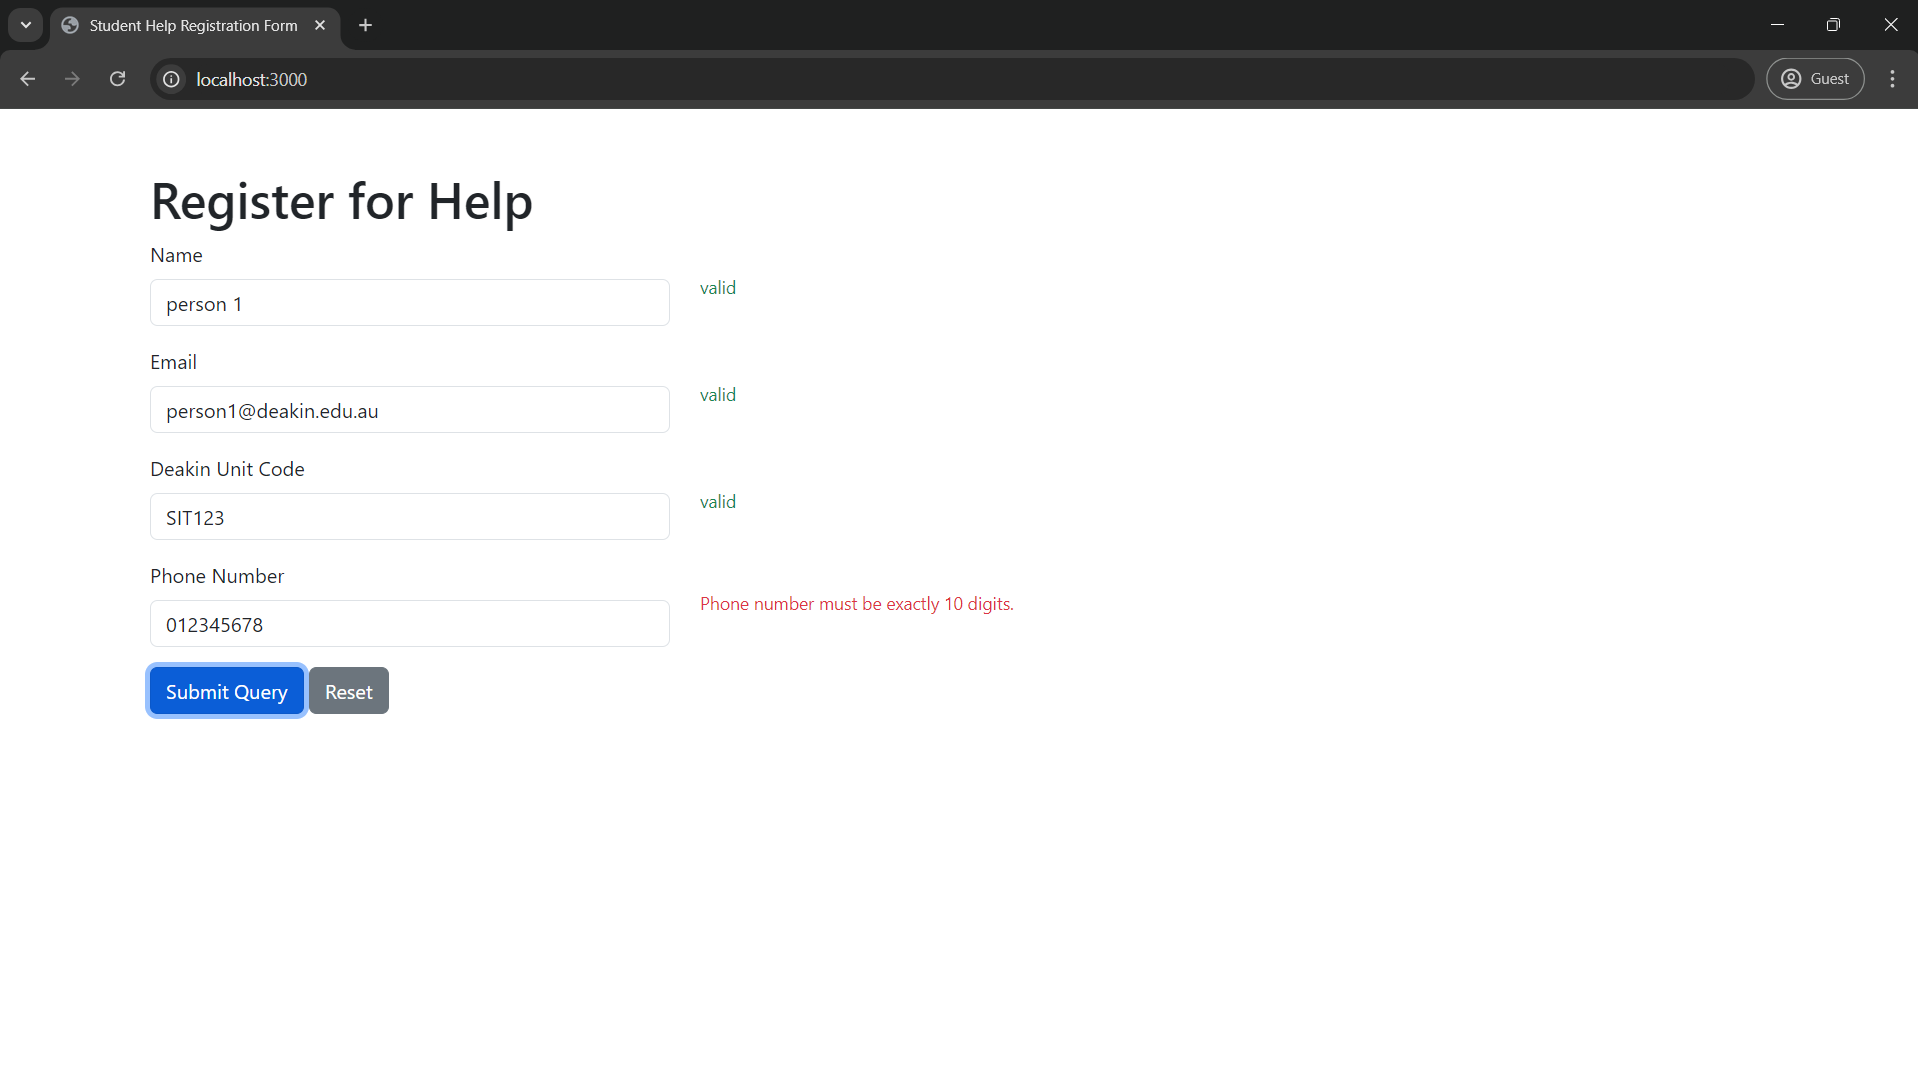
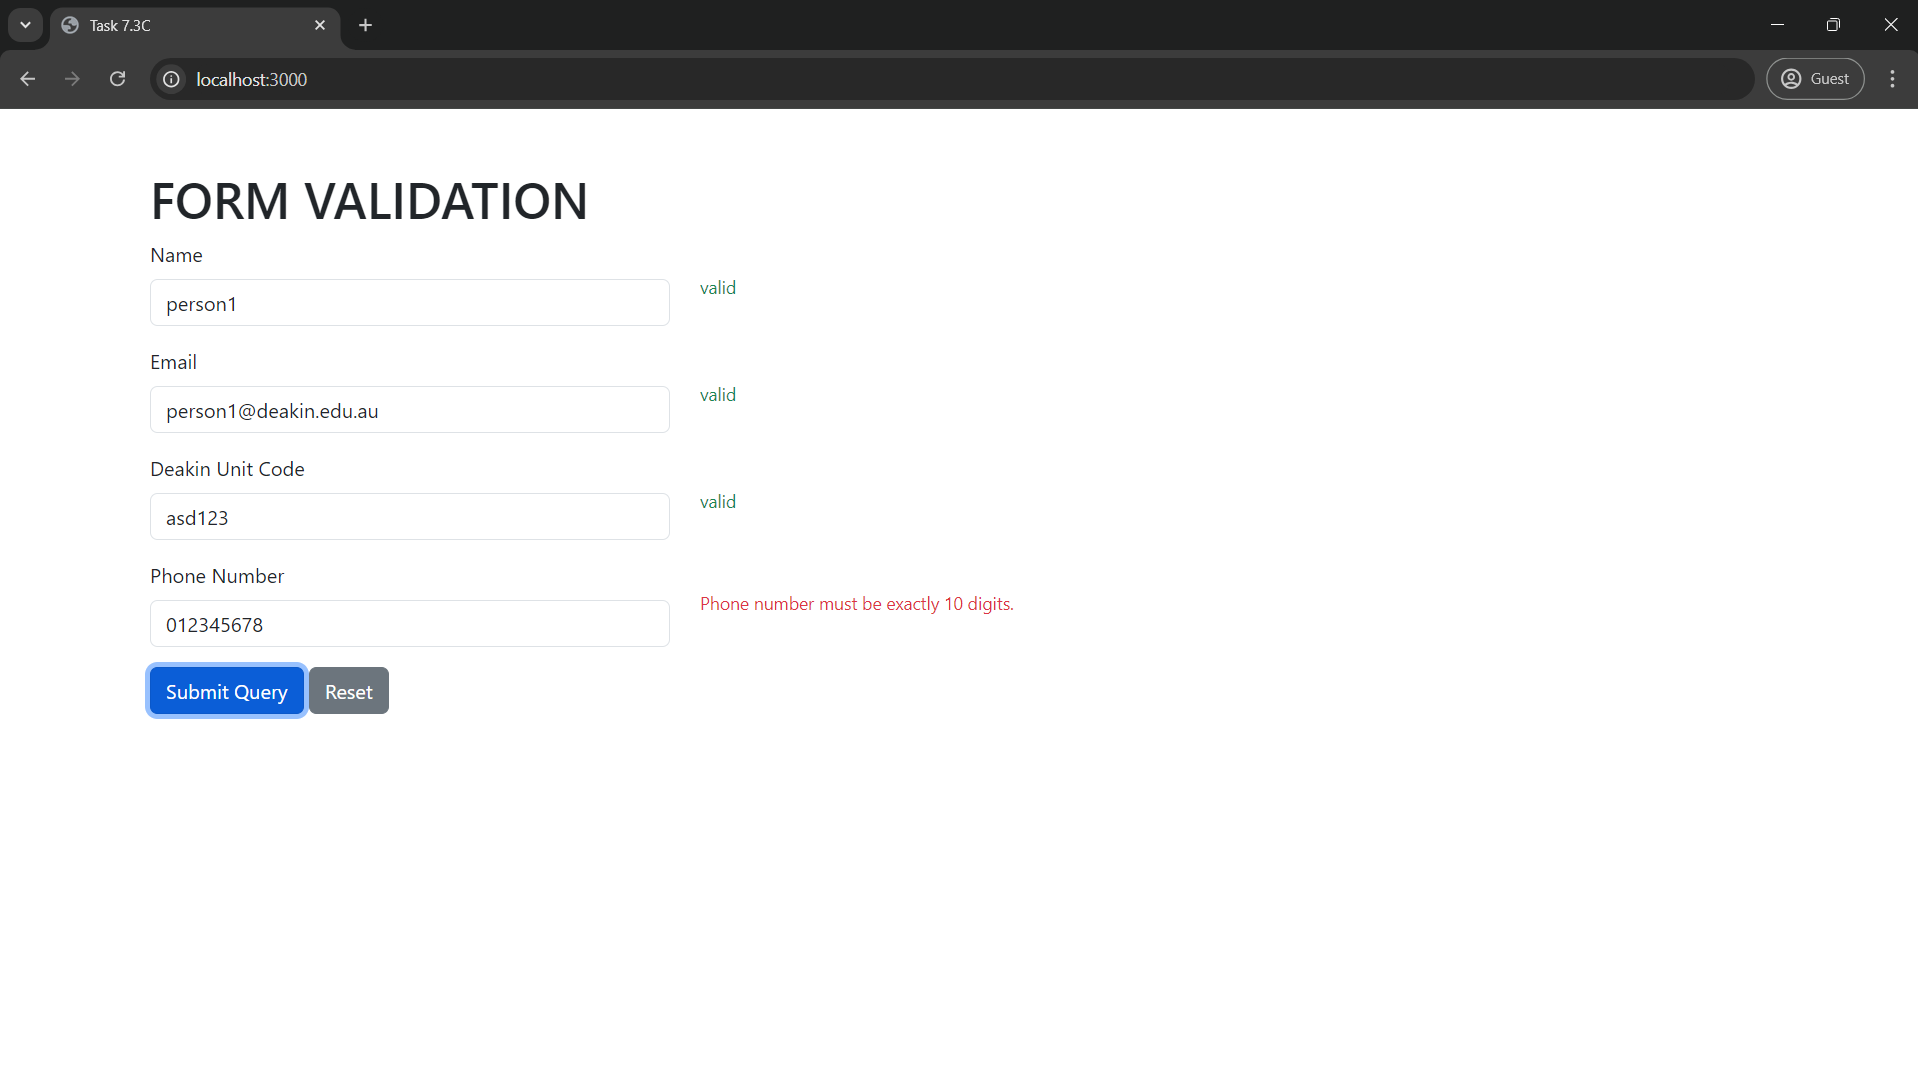
-

Changed region(s): [[0.0923, 0.1531, 0.3076, 0.2143], [0.0615, 0.0, 0.1538, 0.0306], [0.0923, 0.4592, 0.123, 0.4898]]

diff --git a/Task_7.3C/index.html b/Task_7.3C/index.html
@@ -14,11 +14,11 @@
     the same directory as this HTML file (i.e., public_html) -->
     <!-- <script src="icecreamRatings.js"></script> -->
 
-    <title>Student Help Registration Form</title>
+    <title>Task 7.3C</title>
 </head>
 <body>
     <div class="container mt-5">
-        <h1>Register for Help</h1>
+        <h1>FORM VALIDATION</h1>
         <form onsubmit="return validation()">
             <div class="row mb-3">
                 <div class="col-md-4">
